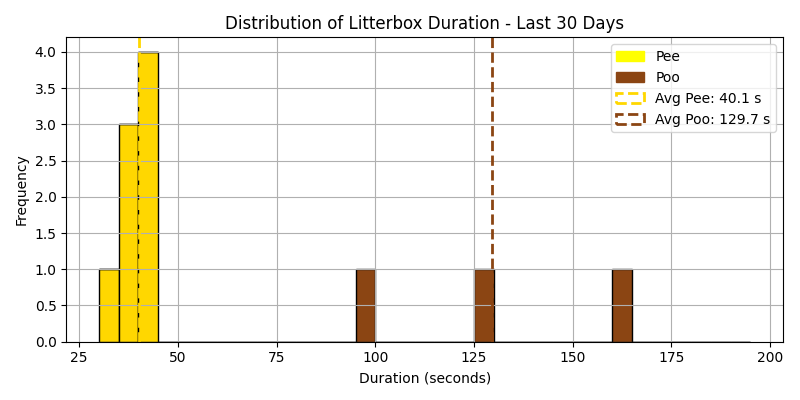
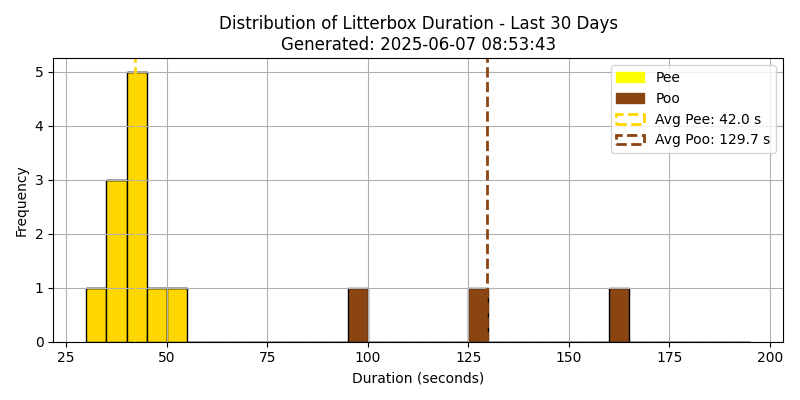
Reformatting. Addressed crashing issue with flask

diff --git a/graph_generator.py b/graph_generator.py
@@ -1,17 +1,22 @@
 import psycopg2
+import matplotlib
 import matplotlib.pyplot as plt
 from matplotlib.dates import DateFormatter
 import matplotlib.dates as mdates
 import matplotlib.patches as mpatches
 import os
+import subprocess
+from datetime import datetime
 from dotenv import load_dotenv
 import numpy as np
 import pandas as pd
+
 
 LITTERBOX_BIN_SIZE = 5
 
 load_dotenv()
 
+matplotlib.use('Agg')
 
 def generate_graph():
     conn = psycopg2.connect(
@@ -44,7 +49,7 @@ def generate_graph():
 
     plt.figure(figsize=(10, 4))
     plt.plot(times, weights, marker='o')
-    plt.title("Mi-chan Weight Over Time")
+    plt.title(f"Mi-chan Weight Over Time\nGenerated: {datetime.now().strftime('%Y-%m-%d %H:%M:%S')}")
     plt.xlabel("Time")
     
     date_format = DateFormatter("%a %m/%d")
@@ -70,6 +75,8 @@ def generate_graph():
     plt.tight_layout()
     os.makedirs("static", exist_ok=True)
     plt.savefig("static/weight_chart.png")
+    plt.savefig("../my_dakboard_data/charts/weight_chart.png")
+    push_chart_to_repo("weight_chart.png", "../my_dakboard_data/charts")
     plt.close()
     #endregion
 
@@ -122,7 +129,7 @@ def generate_duration_histogram():
         edgecolor='black',
         stacked=True
     )
-    plt.title("Distribution of Litterbox Duration - Last 30 Days")
+    plt.title(f"Distribution of Litterbox Duration - Last 30 Days\nGenerated: {datetime.now().strftime('%Y-%m-%d %H:%M:%S')}")
     plt.xlabel("Duration (seconds)")
     plt.ylabel("Frequency")
     plt.grid(True)
@@ -143,6 +150,8 @@ def generate_duration_histogram():
 
     os.makedirs("static", exist_ok=True)
     plt.savefig("static/toilet_duration_histogram.png")
+    plt.savefig("../my_dakboard_data/charts/toilet_duration_histogram.png")
+    push_chart_to_repo("toilet_duration_histogram.png", "../my_dakboard_data/charts")
     plt.close()
 
 def generate_usage_bar_chart():
@@ -181,12 +190,14 @@ def generate_usage_bar_chart():
     ax = pivot_df.plot(
         kind='bar',
         stacked=True,
-        figsize=(12, 6),
+        figsize=(10, 6),
         color={'pee': 'gold', 'poo': 'saddlebrown'},
         width=0.8,
         edgecolor='black'
     )
-    plt.title("Daily Toilet Usage (Last 14 Days)")
+    #plt.title("Daily Toilet Usage (Last 14 Days)")
+    plt.title(f"Daily Toilet Usage (Last 14 Days)\nGenerated: {datetime.now().strftime('%Y-%m-%d %H:%M:%S')}")
+
     plt.xlabel("Date")
     plt.ylabel("Number of Events")
     plt.xticks(rotation=45, ha='center')
@@ -213,9 +224,36 @@ def generate_usage_bar_chart():
 
     os.makedirs("static", exist_ok=True)
     plt.savefig("static/toilet_usage_bar_chart.png")
+    plt.savefig("../my_dakboard_data/charts/toilet_usage_bar_chart.png")
     plt.close()
 
+    push_chart_to_repo("toilet_usage_bar_chart.png", "../my_dakboard_data/charts")
+
+def push_chart_to_repo(image_filename, repo_path="../my_dakboard_data/"):
+    """
+    Push a generated chart image to a public GitHub repo.
+    
+    Args:
+        image_filename (str): Name of the chart image (e.g., 'weight_chart.png')
+        repo_path (str): Relative or absolute path to the cloned repo directory
+    """
+    image_path = os.path.join(repo_path, image_filename)
+
+    if not os.path.exists(image_path):
+        raise FileNotFoundError(f"{image_path} does not exist")
+
+    # Build a timestamped commit message
+    commit_msg = f"Update {image_filename} - {datetime.now().strftime('%Y-%m-%d %H:%M:%S')}"
+
+    try:
+        subprocess.run(["git", "-C", repo_path, "add", f"{image_filename}"], check=True)
+        subprocess.run(["git", "-C", repo_path, "commit", "-m", commit_msg], check=True)
+        subprocess.run(["git", "-C", repo_path, "push"], check=True)
+        print(f"✅ Pushed {image_filename} to GitHub repo at {repo_path}")
+    except subprocess.CalledProcessError as e:
+        print(f"❌ Git operation failed: {e}")
+
 if __name__ == "__main__":
-    #generate_graph()
-    #generate_duration_histogram()
+    generate_graph()
+    generate_duration_histogram()
     generate_usage_bar_chart()
